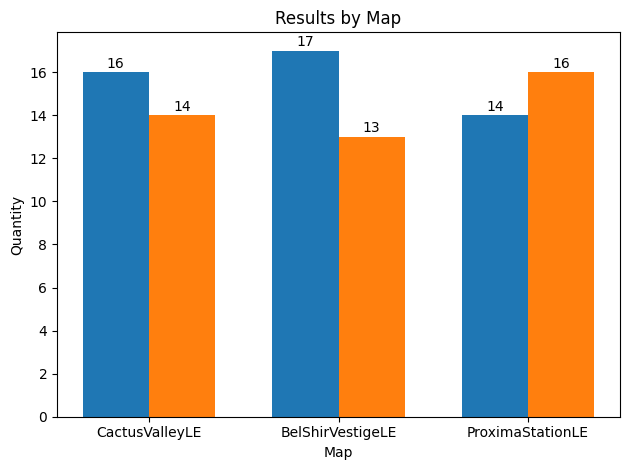
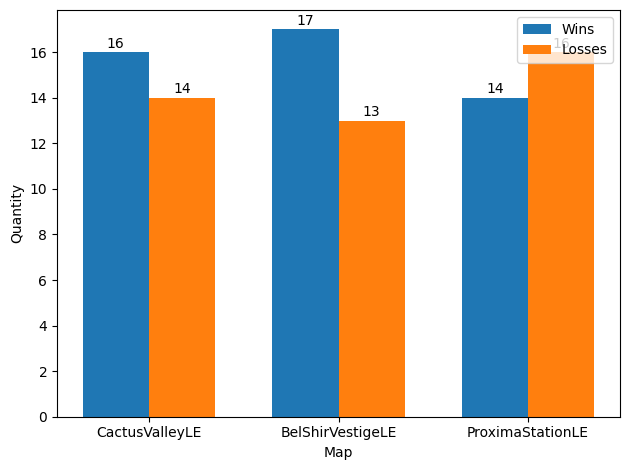
cleanup

diff --git a/scripts/getStats.py b/scripts/getStats.py
@@ -77,6 +77,9 @@ def parseOutput(stdout):
 # TODO: generate graphs and tables from results
 def getGraphs(glob, race, map, difficulty):
 
+    # should print to file
+    print(glob)
+
     for key in map:
         map[key.replace('.SC2Map', '')] = map.pop(key)
 
@@ -107,7 +110,7 @@ def getGraphs(glob, race, map, difficulty):
         # Add some text for labels, title and custom x-axis tick labels, etc.
         ax.set_ylabel('Quantity')
         ax.set_xlabel(name)
-        ax.set_title(f'Results by {name}')
+        ax.legend()
         ax.set_xticks(x, categories)
 
         ax.bar_label(rects1, padding=1)
@@ -122,34 +125,34 @@ def getGraphs(glob, race, map, difficulty):
 
     
 if __name__ == "__main__":
-    #runSimulations()
+    runSimulations()
     #testRun()
 
-    glob = {'Win': 47, 'Loss': 43, 'Tie': 0, 'Undecided': 0}
+    # glob = {'Win': 47, 'Loss': 43, 'Tie': 0, 'Undecided': 0}
 
-    race = {
-        'zerg': {'Win': 14, 'Loss': 16, 'Tie': 0, 'Undecided': 0}, 
-        'protoss': {'Win': 17, 'Loss': 13, 'Tie': 0, 'Undecided': 0}, 
-        'terran': {'Win': 16, 'Loss': 14, 'Tie': 0, 'Undecided': 0}
-    }
+    # race = {
+    #     'zerg': {'Win': 14, 'Loss': 16, 'Tie': 0, 'Undecided': 0}, 
+    #     'protoss': {'Win': 17, 'Loss': 13, 'Tie': 0, 'Undecided': 0}, 
+    #     'terran': {'Win': 16, 'Loss': 14, 'Tie': 0, 'Undecided': 0}
+    # }
 
-    map = {
-        'CactusValleyLE.SC2Map': {'Win': 16, 'Loss': 14, 'Tie': 0, 'Undecided': 0}, 
-        'BelShirVestigeLE.SC2Map': {'Win': 17, 'Loss': 13, 'Tie': 0, 'Undecided': 0}, 
-        'ProximaStationLE.SC2Map': {'Win': 14, 'Loss': 16, 'Tie': 0, 'Undecided': 0}
-    }
+    # map = {
+    #     'CactusValleyLE.SC2Map': {'Win': 16, 'Loss': 14, 'Tie': 0, 'Undecided': 0}, 
+    #     'BelShirVestigeLE.SC2Map': {'Win': 17, 'Loss': 13, 'Tie': 0, 'Undecided': 0}, 
+    #     'ProximaStationLE.SC2Map': {'Win': 14, 'Loss': 16, 'Tie': 0, 'Undecided': 0}
+    # }
 
-    difficulty = {
-        'VeryEasy': {'Win': 9, 'Loss': 0, 'Tie': 0, 'Undecided': 0}, 
-        'Easy': {'Win': 9, 'Loss': 0, 'Tie': 0, 'Undecided': 0}, 
-        'Medium': {'Win': 8, 'Loss': 1, 'Tie': 0, 'Undecided': 0}, 
-        'MediumHard': {'Win': 8, 'Loss': 1, 'Tie': 0, 'Undecided': 0}, 
-        'Hard': {'Win': 5, 'Loss': 4, 'Tie': 0, 'Undecided': 0}, 
-        'HardVeryHard': {'Win': 5, 'Loss': 4, 'Tie': 0, 'Undecided': 0}, 
-        'VeryHard': {'Win': 3, 'Loss': 6, 'Tie': 0, 'Undecided': 0}
-    }
+    # difficulty = {
+    #     'VeryEasy': {'Win': 9, 'Loss': 0, 'Tie': 0, 'Undecided': 0}, 
+    #     'Easy': {'Win': 9, 'Loss': 0, 'Tie': 0, 'Undecided': 0}, 
+    #     'Medium': {'Win': 8, 'Loss': 1, 'Tie': 0, 'Undecided': 0}, 
+    #     'MediumHard': {'Win': 8, 'Loss': 1, 'Tie': 0, 'Undecided': 0}, 
+    #     'Hard': {'Win': 5, 'Loss': 4, 'Tie': 0, 'Undecided': 0}, 
+    #     'HardVeryHard': {'Win': 5, 'Loss': 4, 'Tie': 0, 'Undecided': 0}, 
+    #     'VeryHard': {'Win': 3, 'Loss': 6, 'Tie': 0, 'Undecided': 0}
+    # }
 
-    getGraphs(glob, race, map, difficulty)
+    # getGraphs(glob, race, map, difficulty)
 
 
 # TODO
